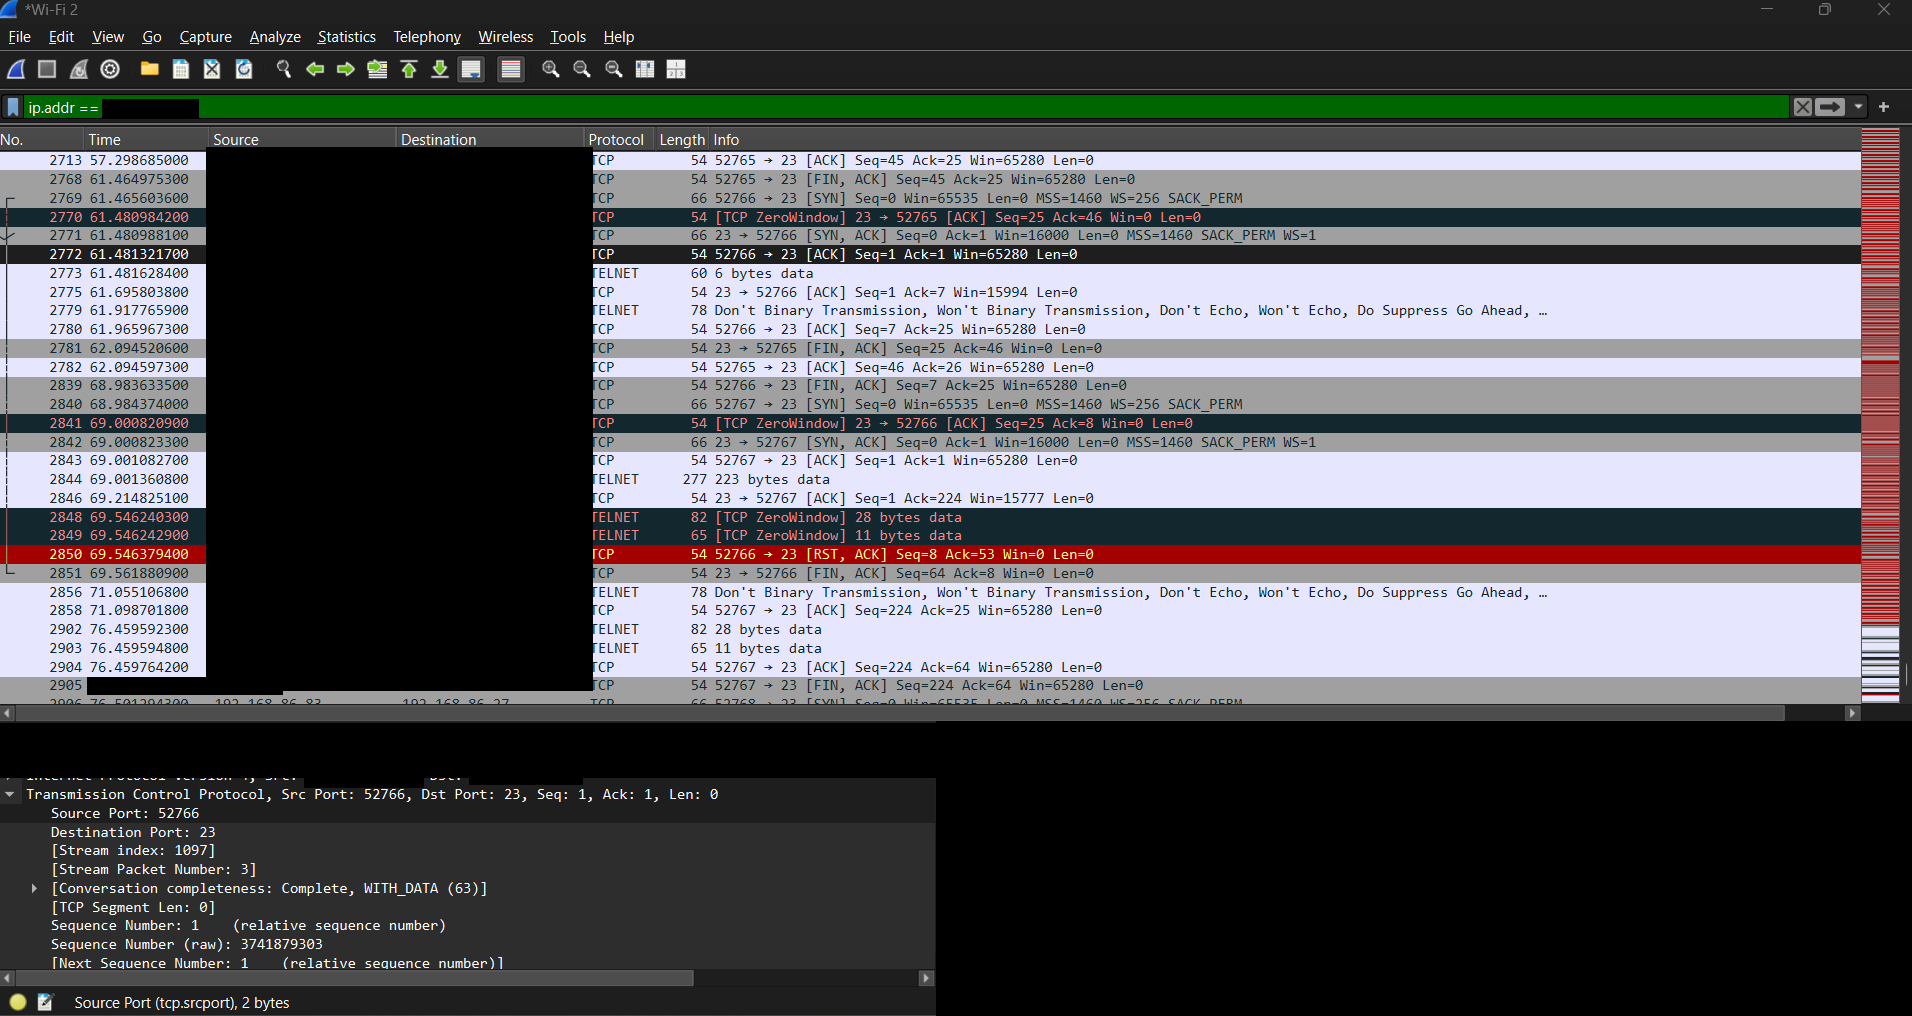
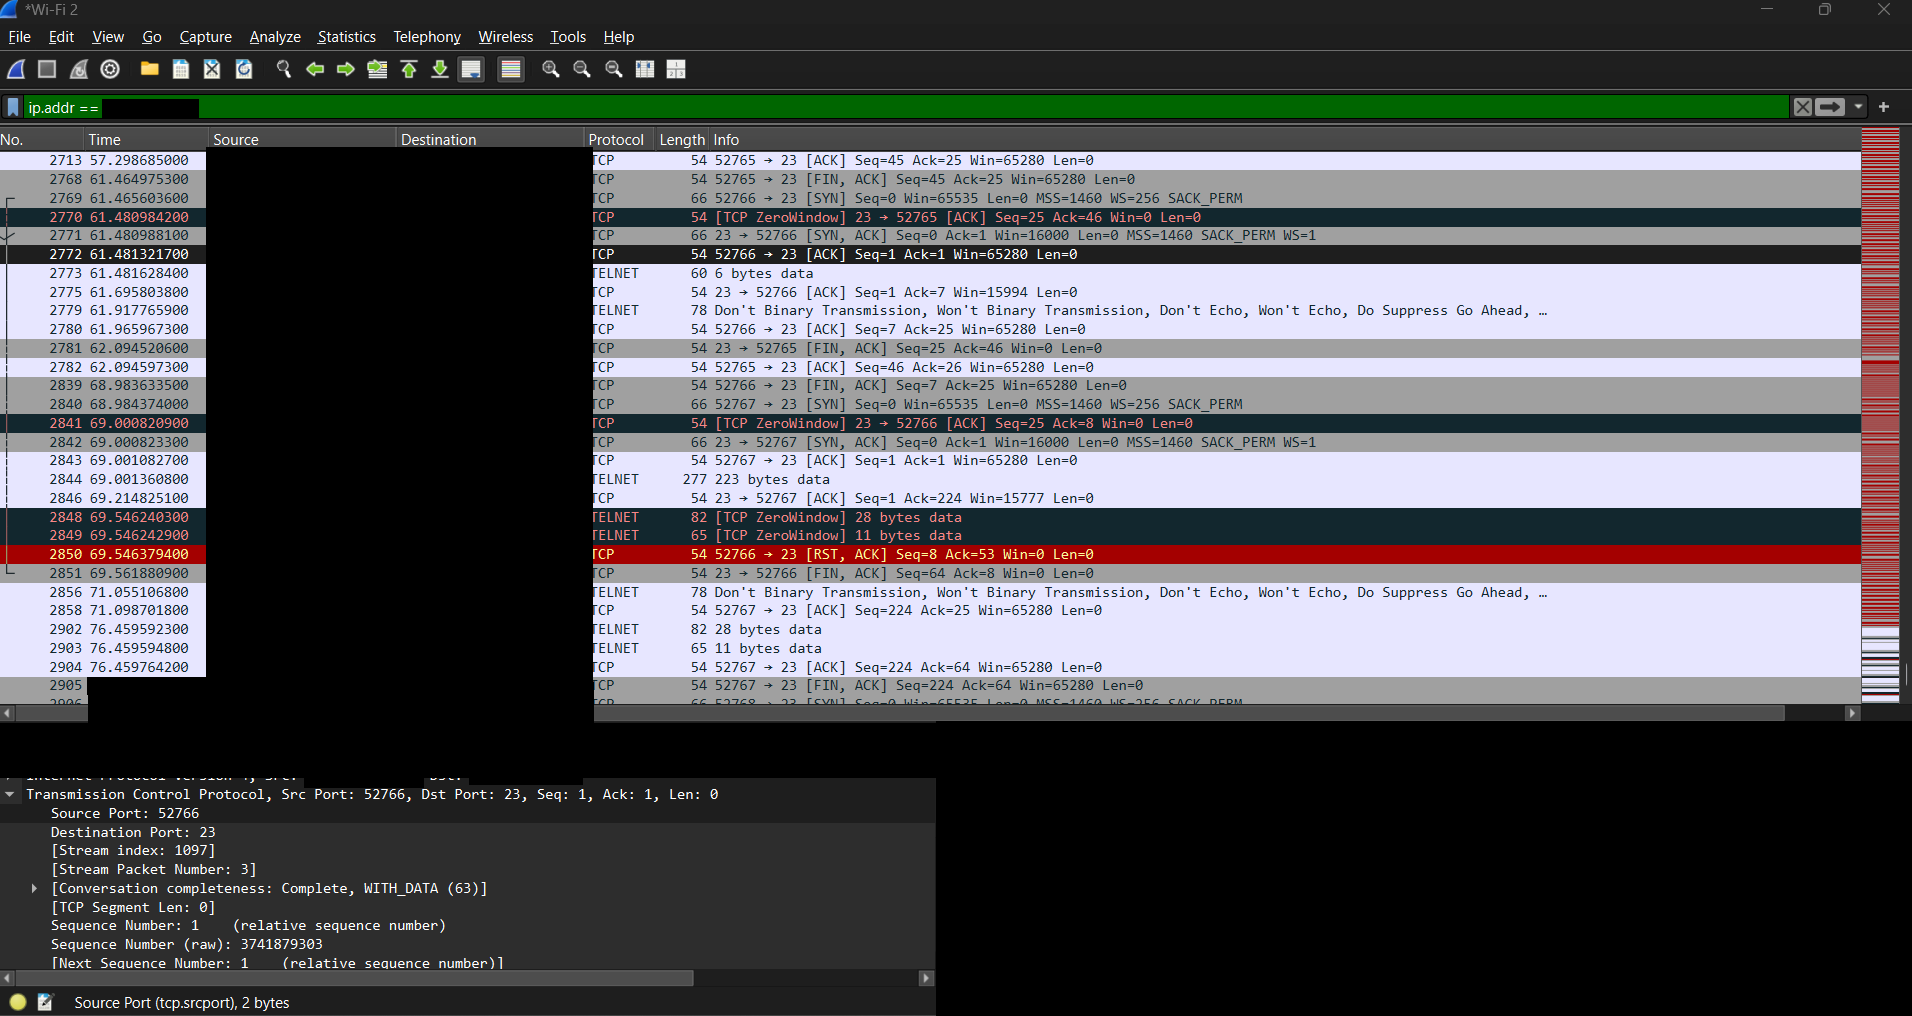
Audit 1.1
Audited screenshots to validate redactions. Made necessary changes/improvements. Further removed redundant files or placeholders. Updated hashes in accordance with screenshot redactions.

Changed region(s): [[0.0309, 0.6713, 0.3086, 0.7323]]

diff --git a/automation/network_security_report.py b/automation/network_security_report.py
@@ -421,9 +421,9 @@ def generate_security_report(
         report.write(
             "The post-segmentation Main LAN scan showed changes in "
             "observed hosts compared to the results from the "
-            "pre-segmentation Main LAN scan. The Hayward OmniLogic "
-            "pool controller and MyQ garage door opener, which were "
-            "previously observed on the Main LAN, were no longer "
+            "pre-segmentation Main LAN scan. The pool controller "
+            "and garage door opener, which were previously "
+            "observed on the Main LAN, were no longer "
             "observed in the post-segmentation Main LAN scan. This "
             "result is consistent with the intended migration of "
             "these IoT devices to the segmented Guest Network.\n\n"

diff --git a/evidence/06-splunk/README.md b/evidence/06-splunk/README.md
@@ -22,7 +22,7 @@ Sixteen screenshots and one original dashboard PDF, published as redacted deriva
 | [S11 — 11-baseline-service-inventory-panel.png](11-baseline-service-inventory-panel.png) | Paginated inventory excerpt includes pool TCP/23 and laptop TCP/445 and 5800. Panel title says complete inventory, but screenshot shows only a page excerpt. |
 | [S12 — 12-post-segmentation-dashboard-summary.png](12-post-segmentation-dashboard-summary.png) | Dashboard shows 10 discovered hosts, 34 open services, 1 security-relevant service; Global Time Range All time. Post-state attribution is consistent with comparison panels and PDF, but panel SPL is not shown. |
 | [S13 — 13-post-segmentation-classified-service.png](13-post-segmentation-classified-service.png) | One classified row remains: 192.0.2.83 TCP/445 microsoft-ds, SMB/File Sharing. This is one service under the chosen classification, not the only service or only remaining risk. |
-| [S14 — 14-pre-post-comparison-and-missing-hosts.png](14-pre-post-comparison-and-missing-hosts.png) | Explicit state labels show open TCP services pre 39/post 34 and classified services pre 5/post 1. Missing-host table lists pool .27, laptop .74 and MyQ .22. Post appears left and pre right; read labels rather than bar position. |
+| [S14 — 14-pre-post-comparison-and-missing-hosts.png](14-pre-post-comparison-and-missing-hosts.png) | Explicit state labels show open TCP services pre 39/post 34 and classified services pre 5/post 1. Missing-host table lists pool .27, laptop .74 and Garage Controller .22. Post appears left and pre right; read labels rather than bar position. |
 | [S15 — 15-windows-failed-login-detection-logic.png](15-windows-failed-login-detection-logic.png) | Search index=windows_endpoint EventCode=4625 bins _time span=5m; stats by time, ComputerName and Account_Name; failed_logons>=3. Range 2026-09-03 13:45–14:00. Two rows at 13:55, each count 3, for TEDCHASE$ and lab-user on lab-workstation; failure reason Unknown user name or bad password, source 127.0.0.1. UI reports 3 events and 2 statistics rows; do not sum as six distinct failures. |
 | [S16 — 16-windows-failed-login-alert-trigger.png](16-windows-failed-login-alert-trigger.png) | Windows - Multiple Failed Logins is enabled, scheduled (Cron Schedule), trigger Number of Results > 0, action Add to Triggered Alerts. History shows 2026-09-03 14:00:01 EDT. Exact cron/lookback and View Results contents are not shown. |
 | [S17 — 17-home-network-security-dashboard.pdf](17-home-network-security-dashboard.pdf) | One-page image-based export inspected visually: 10/34/1 summary, one SMB row, post-state service chart, inventory page 1 of 4 and pre/post comparison. Export does not expose all paginated rows or dashboard SPL; it is another presentation of the dataset, not independent measurement. |

diff --git a/evidence/07-python/README.md b/evidence/07-python/README.md
@@ -22,4 +22,4 @@ Raw XML is under `evidence/04-nmap/private/`; the unchanged script is `evidence/
 
 ## Verified result
 
-Main inventories reproduce 12 → 10 hosts and 39 → 34 open TCP service records. The chosen Splunk classification reproduces 5 → 1. Both supplied CSVs match regenerated records, and report lines match allowing set-related ordering differences. Guest XML records four hosts/14 open service records, including the same MyQ/Hayward MACs and their still-open TCP/80 and TCP/23 services. See the reconciliation for scope and the Guest run-summary discrepancy.
+Main inventories reproduce 12 → 10 hosts and 39 → 34 open TCP service records. The chosen Splunk classification reproduces 5 → 1. Both supplied CSVs match regenerated records, and report lines match allowing set-related ordering differences. Guest XML records four hosts/14 open service records, including the same Garage Controller/Pool Controller MACs and their still-open TCP/80 and TCP/23 services. See the reconciliation for scope and the Guest run-summary discrepancy.
